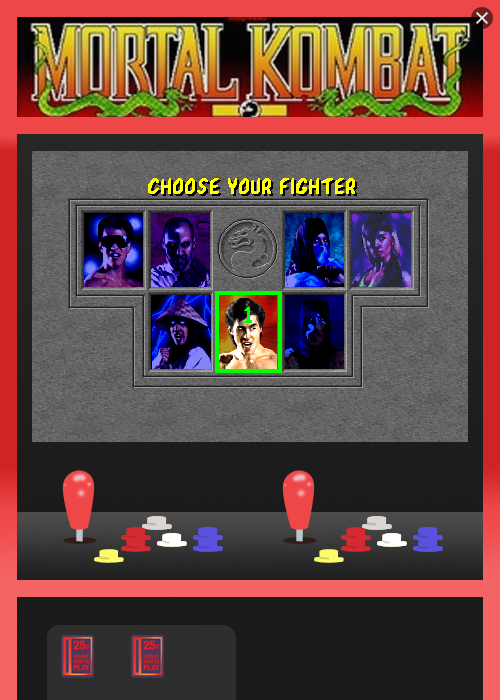
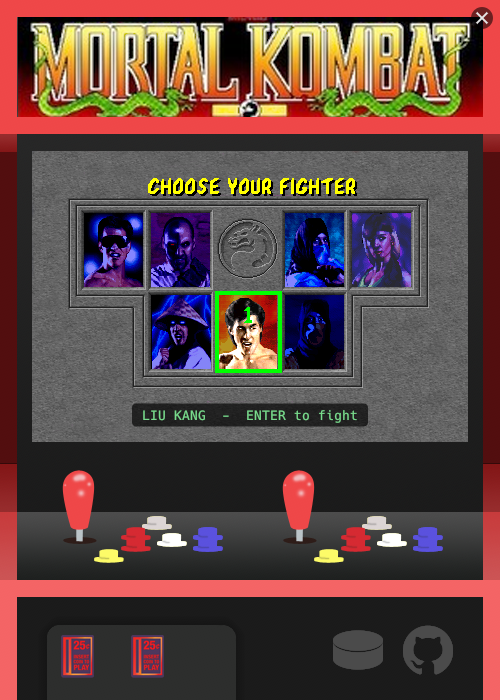
Docs: README and screenshots for v0.0.22
New screenshots with the current cabinet art and the puck/GitHub icons
(character select, and a round breaking wood that unlocks Johnny Cage).
README: controls table drops R and adds the update offer's keys, the link
icons move next to the window notes, updating works from v0.0.22 (the first
signed release), --version example updated, tag example made generic, and
Built with lists chrono, ureq, minisign-verify and self_replace. Same fixes
to the v0.0.20 references in docs/releasing.md, PROJECT.md and the
workflow comment. No version bump: documentation only.

diff --git a/README.md b/README.md
@@ -23,9 +23,11 @@ for Windows or macOS. Neither is code-signed, so the OS warns the first time:
   "Open Anyway". Or, in Terminal:
   `xattr -dr com.apple.quarantine "/Applications/Test Your Might.app"`.
 
+After that, the game updates itself (see [Updates](#updates)).
+
 <p>
   <img src="docs/screenshots/character-select.png" alt="Character select screen inside the arcade cabinet" width="320">
-  <img src="docs/screenshots/test-your-might.png" alt="Test Your Might round: both fighters broke their wood slabs" width="320">
+  <img src="docs/screenshots/test-your-might.png" alt="Test Your Might round: both fighters broke their wood slabs, unlocking Johnny Cage" width="320">
 </p>
 
 ## How to play
@@ -45,13 +47,16 @@ for Windows or macOS. Neither is code-signed, so the OS warns the first time:
 | --- | --- | --- |
 | Character select | Arrow keys | Move the selector |
 | Character select | Enter | Pick the highlighted fighter |
+| Update offer | Enter / Esc | Install the new version / keep playing (see [Updates](#updates)) |
 | Test Your Might | Letters / Space | Type the words (Space moves to the next word) |
 | Test Your Might | Backspace | Delete a letter; keeps going back into earlier words |
-| Test Your Might | Enter (or R) | After a round: start the next round |
+| Test Your Might | Enter | After a round: start the next round |
 | Test Your Might | Esc | Back to character select (a round in progress is discarded) |
 
 Drag the window by the cabinet art around the screen; close it with the X in
-the top-right corner.
+the top-right corner. On the bottom right of the cabinet, the hockey puck
+opens [biscuitsinthebasket.com](https://www.biscuitsinthebasket.com) and the
+GitHub logo opens this repo in your browser.
 
 ### Scoring and progression
 
@@ -115,12 +120,8 @@ instead of overwriting it.
 ## Version
 
 ```
-test-your-might.exe --version      # also -v; prints e.g. "Test Your Might 0.0.17"
+test-your-might.exe --version      # also -v; prints e.g. "Test Your Might 0.0.22"
 ```
-
-On the bottom right of the cabinet, the hockey puck opens
-[biscuitsinthebasket.com](https://www.biscuitsinthebasket.com) and the GitHub
-logo opens this repo in your browser.
 
 ## Updates
 
@@ -137,7 +138,9 @@ To update from a terminal instead:
 test-your-might.exe --update
 ```
 
-This works from v0.0.20 on; older versions need one manual download.
+Updating works from v0.0.22, the first release with it; older versions need
+one manual download. If you're offline or GitHub can't be reached, the game
+just skips the check.
 
 ## Window size
 
@@ -176,15 +179,16 @@ an end-to-end self-update test on both. Pushing a version tag also signs the
 builds and publishes them as a GitHub Release:
 
 ```
-git tag v0.0.20
-git push origin v0.0.20
+git tag v<version in Cargo.toml>
+git push origin v<version in Cargo.toml>
 ```
 
 Signing needs the `MINISIGN_SECRET_KEY` repository secret; see
 [`docs/releasing.md`](docs/releasing.md).
 
 Release builds run without a console window of their own on Windows; when
-launched from a terminal they print to it (e.g. `--version`, `--reset`).
+launched from a terminal they print to it (e.g. `--version`, `--update`,
+`--reset`).
 
 ### Development notes
 
@@ -204,7 +208,12 @@ launched from a terminal they print to it (e.g. `--version`, `--reset`).
 - [image](https://crates.io/crates/image) for decoding the embedded PNG art
 - [rand](https://crates.io/crates/rand) for word and opponent picks
 - [serde](https://serde.rs/) + [directories](https://crates.io/crates/directories)
-  for saved progress
+  for saved progress, [chrono](https://crates.io/crates/chrono) for the
+  days-played unlock
+- [ureq](https://crates.io/crates/ureq),
+  [minisign-verify](https://crates.io/crates/minisign-verify) and
+  [self_replace](https://crates.io/crates/self-replace) for signed
+  self-updates
 
 ## Disclaimer
 

diff --git a/PROJECT.md b/PROJECT.md
@@ -176,7 +176,8 @@ Current version: see `Cargo.toml` (`version`). Bump this on every commit.
   replaces the exe (self_replace), macOS the whole .app. HTTPS: OS TLS on
   Windows/macOS (company proxy certs work), rustls on Linux (dev only).
   Relaunch keeps only `--height`. E2E: `tools/update-e2e.sh` (CI on
-  Windows+macOS). First release with it: 0.0.20 (0.0.19 was never released).
+  Windows+macOS). First release with it: v0.0.22 (published and signature-verified;
+  0.0.19-0.0.21 were never released).
 - Releases: pushing a `v*` tag runs `.github/workflows/release.yml`:
   Windows `.exe` (windows-latest) and a universal (arm64+x86_64) macOS
   `.app`, ad-hoc signed, zipped as `test-your-might-macos.zip`

diff --git a/docs/releasing.md b/docs/releasing.md
@@ -8,15 +8,15 @@ version tag is pushed:
 2. Tag that commit with the same version and push the tag:
 
    ```
-   git tag v0.0.20
-   git push origin v0.0.20
+   git tag v0.0.23
+   git push origin v0.0.23
    ```
 
 The workflow builds and tests Windows and macOS, runs the self-update
 end-to-end test on both, checks the tag matches `Cargo.toml`, signs the
 `.exe` and the macOS `.zip`, and publishes them with their `.minisig`
-signatures. Copies of the game from v0.0.20 on offer the new release at
-startup (see `src/update.rs`).
+signatures. Copies of the game from v0.0.22 (the first signed release) on
+offer the new release at startup (see `src/update.rs`).
 
 ## The signing key
 
